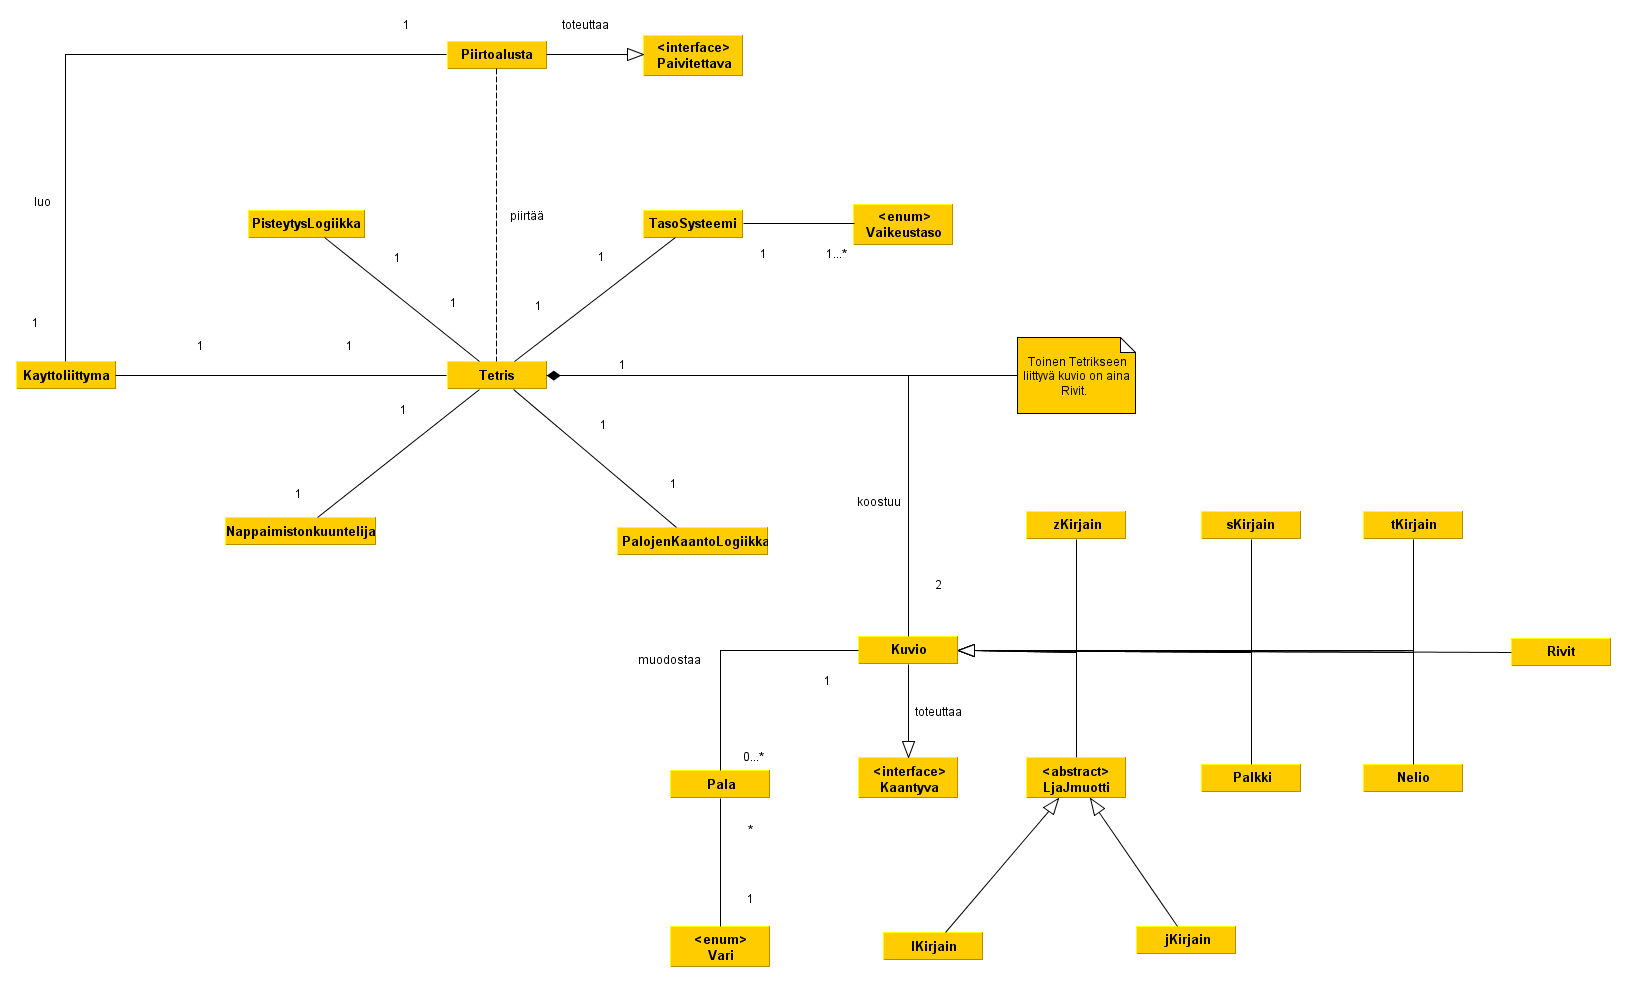
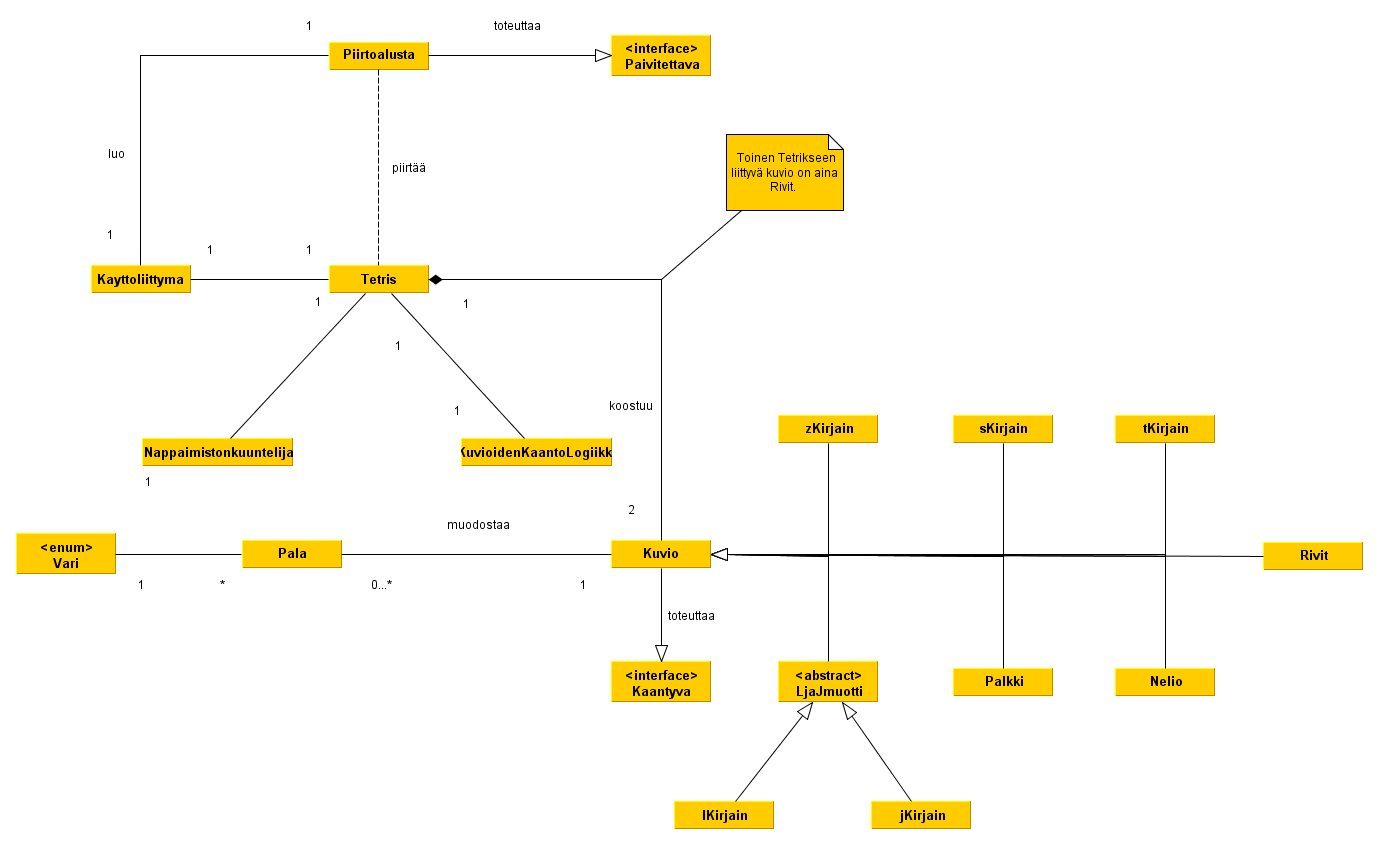
uudelleennimetty luokka

diff --git a/Tetris/src/tetris/peli/Tetris.java b/Tetris/src/tetris/peli/Tetris.java
@@ -1,6 +1,6 @@
 package tetris.peli;
 
-import tetris.peli.PalojenKaantoLogiikka;
+import tetris.peli.KuvioidenKaantoLogiikka;
 import java.awt.event.ActionEvent;
 import java.awt.event.ActionListener;
 import java.util.Random;
@@ -58,7 +58,7 @@ public class Tetris extends Timer implements ActionListener {
     /**
      * palojen kääntölogiikan sisältävä oliomuuttuja
      */
-    private PalojenKaantoLogiikka kaanto;
+    private KuvioidenKaantoLogiikka kaanto;
     /**
      * pitää kirjaa pelaajalla olevista pisteistä
      */
@@ -93,7 +93,7 @@ public class Tetris extends Timer implements ActionListener {
         this.kuvio = this.arvoKuvio();
         this.peliPaattynyt = false;
         this.keskeytetty = false;
-        this.kaanto = new PalojenKaantoLogiikka(rivit, leveys, korkeus);
+        this.kaanto = new KuvioidenKaantoLogiikka(rivit, leveys, korkeus);
         this.tasoSysteemi = new Tasosysteemi(this);
         this.pisteytysLogiikka = new PisteytysLogiikka();
         this.pisteet = 0;

diff --git a/Tetris/test/tetris/peli/PalojenKaantoLogiikkaTest.java b/Tetris/test/tetris/peli/PalojenKaantoLogiikkaTest.java
@@ -27,7 +27,7 @@ public class PalojenKaantoLogiikkaTest {
 
     //muokkaa riippumattomaksi luokasta tetris
     Tetris tetris;
-    PalojenKaantoLogiikka kaanto;
+    KuvioidenKaantoLogiikka kaanto;
 
     public PalojenKaantoLogiikkaTest() {
     }
@@ -43,7 +43,7 @@ public class PalojenKaantoLogiikkaTest {
     @Before
     public void setUp() {
         tetris = new Tetris(15, 30, Vaikeustaso.EDISTYNYT);
-        kaanto = new PalojenKaantoLogiikka(tetris.getRivit(), tetris.getLeveys(), tetris.getKorkeus());
+        kaanto = new KuvioidenKaantoLogiikka(tetris.getRivit(), tetris.getLeveys(), tetris.getKorkeus());
     }
 
     @After

diff --git a/Tetris/src/tetris/peli/KuvioidenKaantoLogiikka.java b/Tetris/src/tetris/peli/KuvioidenKaantoLogiikka.java
@@ -17,7 +17,7 @@ import tetris.domain.zKirjain;
  *
  * @author Johannes
  */
-public class PalojenKaantoLogiikka {
+public class KuvioidenKaantoLogiikka {
 
     /**
      * Sisältää tiedon pelialueella olevista paloista poislukien pala jota
@@ -33,7 +33,7 @@ public class PalojenKaantoLogiikka {
      */
     private int korkeus;
 
-    public PalojenKaantoLogiikka(Rivit rivit, int leveys, int korkeus) {
+    public KuvioidenKaantoLogiikka(Rivit rivit, int leveys, int korkeus) {
         this.rivit = rivit;
         this.leveys = leveys;
         this.korkeus = korkeus;
